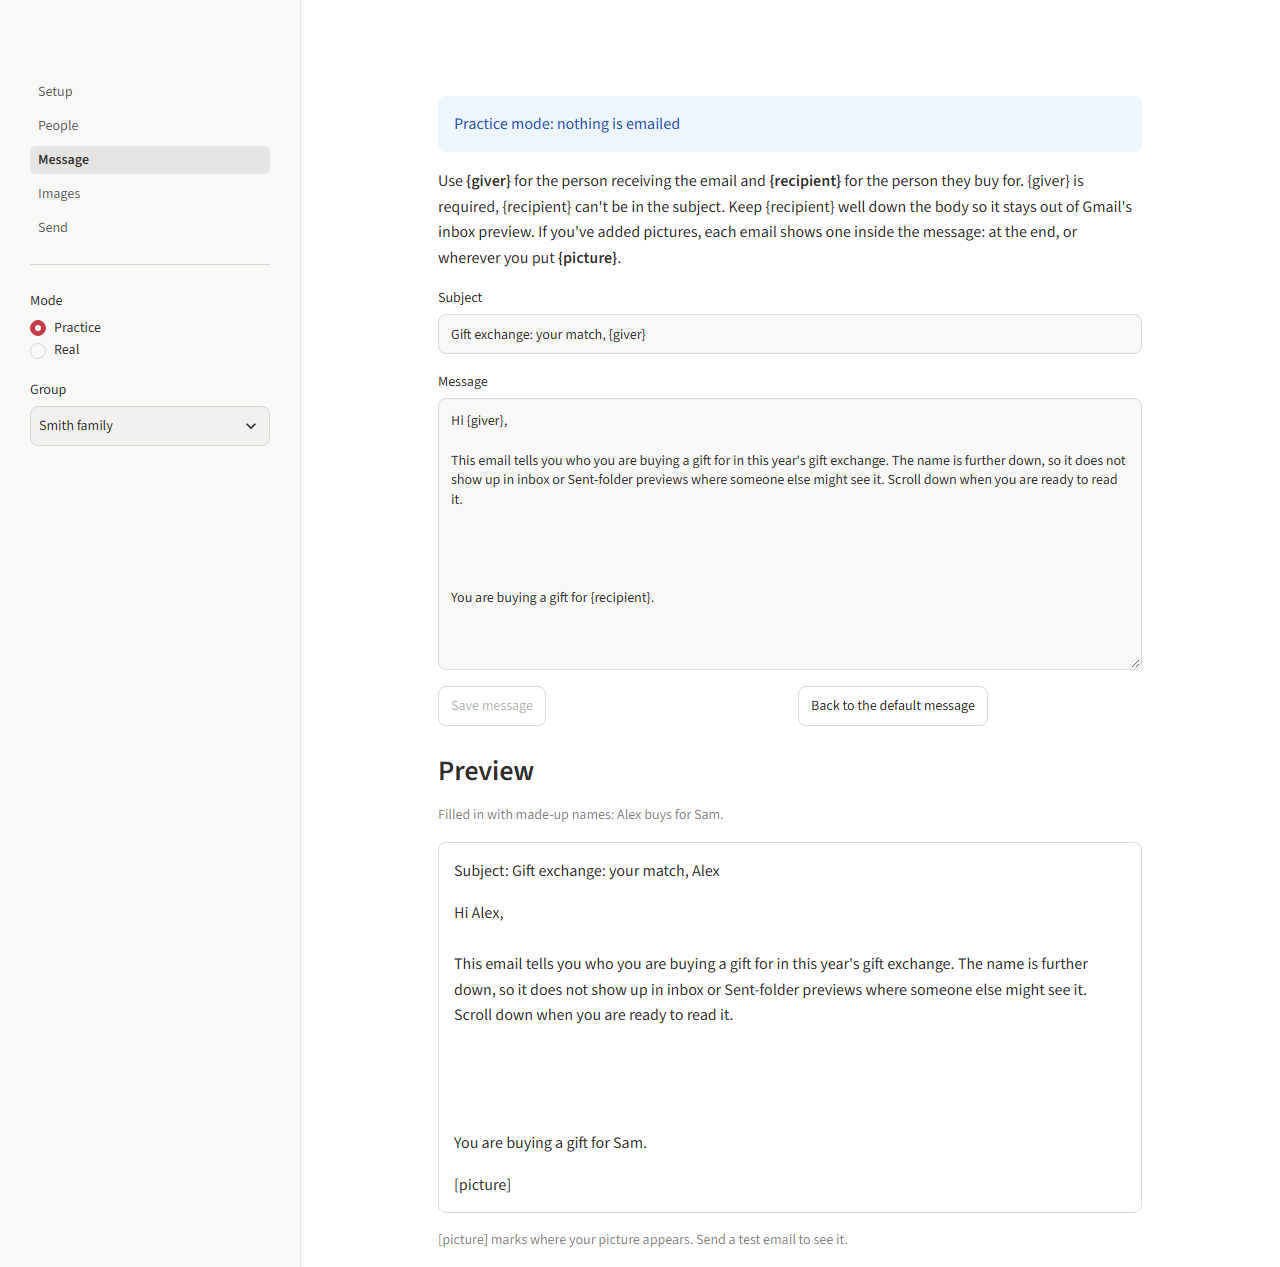
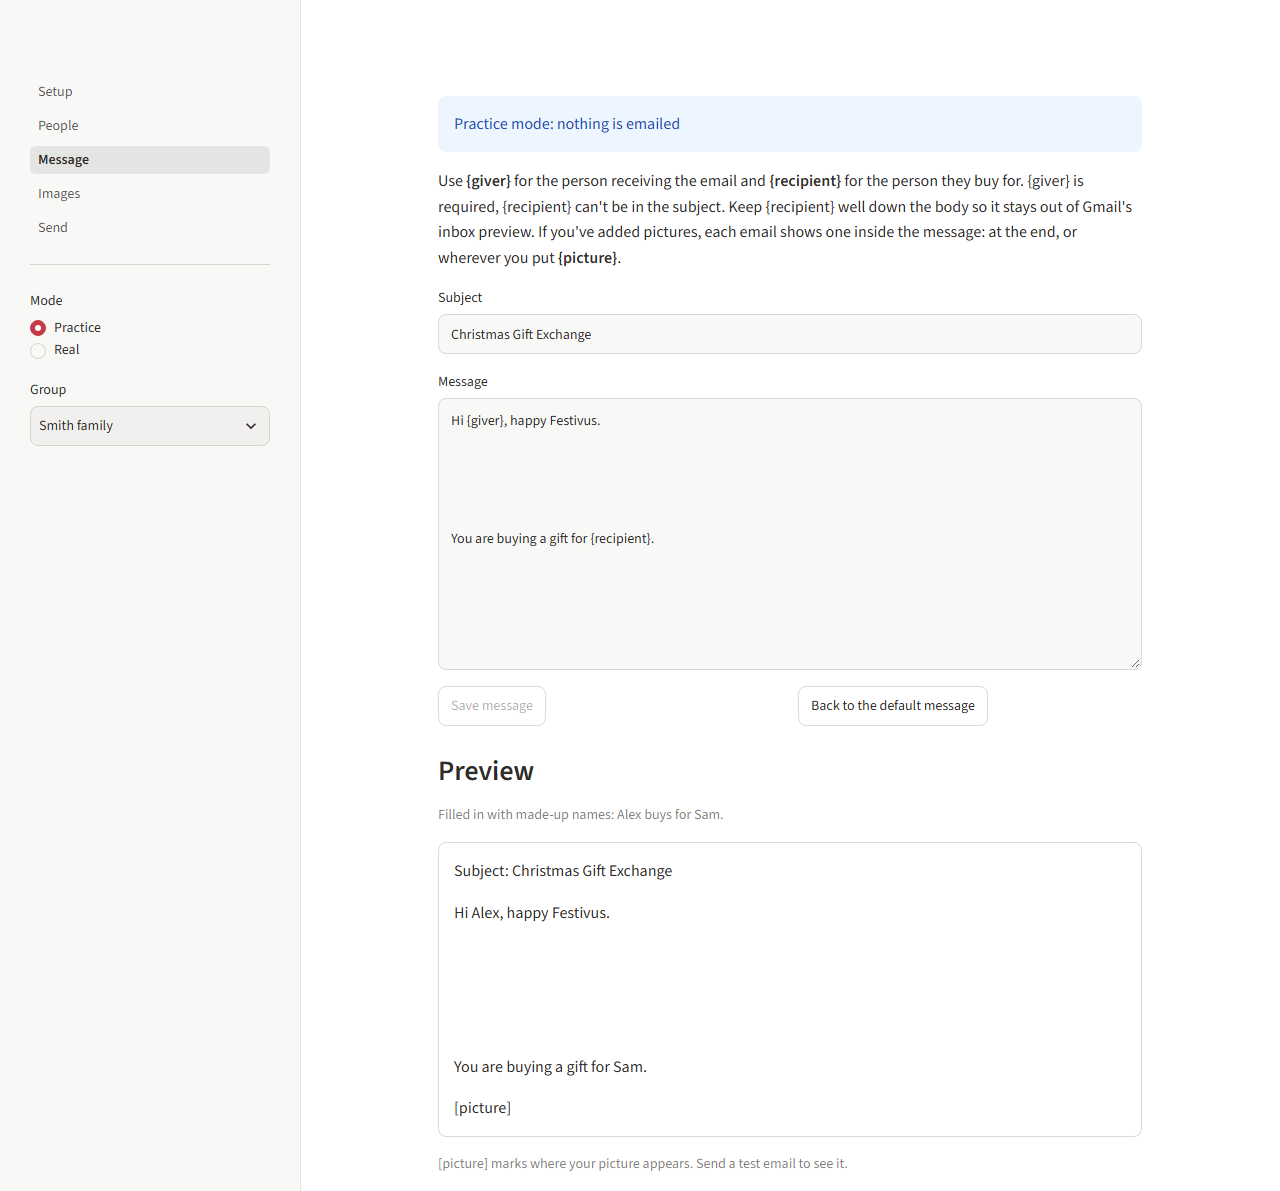
New defaults: "Christmas Gift Exchange" and a short Festivus message
- DEFAULT_SUBJECT "Christmas Gift Exchange"; DEFAULT_BODY "Hi {giver},
  happy Festivus." then five blank lines and the match.
- Groups still on an earlier default subject or message move to the new
  one when the database opens; edited ones are left alone.
- README: no longer claims the default hides the match from inbox
  previews (it doesn't any more); says how to hide it if wanted.
- Screenshots regenerated (Message page, example email cropped to its
  content).

diff --git a/src/giftx/storage.py b/src/giftx/storage.py
@@ -10,7 +10,7 @@ from datetime import timezone
 from pathlib import Path
 
 from giftx import SCHEMA_VERSION
-from giftx.compose import DEFAULT_BODY, DEFAULT_SUBJECT, OLD_DEFAULT_BODIES
+from giftx.compose import DEFAULT_BODY, DEFAULT_SUBJECT, OLD_DEFAULT_BODIES, OLD_DEFAULT_SUBJECTS
 from giftx.model import Person, Rejected, SendRecord, Sent, Unknown
 from giftx.people import clean_email, clean_name
 
@@ -167,10 +167,15 @@ class Storage:
                 _run_script(conn, SAVED_SCHEMA)
             if version < SCHEMA_VERSION:
                 conn.execute(f"PRAGMA user_version = {SCHEMA_VERSION}")
-            # groups still on an earlier default message get the current one (edited ones are kept)
+            # groups still on an earlier default subject or message get the current one (edited ones
+            # are kept)
             conn.executemany(
                 "UPDATE groups SET body = ? WHERE body = ?",
                 [(DEFAULT_BODY, old) for old in OLD_DEFAULT_BODIES],
+            )
+            conn.executemany(
+                "UPDATE groups SET subject = ? WHERE subject = ?",
+                [(DEFAULT_SUBJECT, old) for old in OLD_DEFAULT_SUBJECTS],
             )
 
     # ------------------------------------------------------------ helpers

diff --git a/src/giftx/compose.py b/src/giftx/compose.py
@@ -16,19 +16,26 @@ GIVER = "{giver}"
 RECIPIENT = "{recipient}"
 PICTURE = "{picture}"  # optional: where the picture goes; at the end without it
 
-DEFAULT_SUBJECT = "Gift exchange: your match, {giver}"
+DEFAULT_SUBJECT = "Christmas Gift Exchange"
 DEFAULT_BODY = (
+    "Hi {giver}, happy Festivus.\n\n\n\n\n\n"
+    "You are buying a gift for {recipient}."
+)
+
+# Earlier defaults. A group still holding one of these unchanged is moved to the current default when
+# the database opens; a message someone edited is never touched.
+_LEAD_IN_BODY = (
     "Hi {giver},\n\n"
     "This email tells you who you are buying a gift for in this year's gift exchange. The name is "
     "further down, so it does not show up in inbox or Sent-folder previews where someone else might "
     "see it. Scroll down when you are ready to read it.\n\n\n\n\n"
     "You are buying a gift for {recipient}."
 )
-
-# earlier defaults: a group still holding one of these unchanged is moved to DEFAULT_BODY
 OLD_DEFAULT_BODIES = (
-    DEFAULT_BODY + "\n\nPlease keep it a secret!",
+    _LEAD_IN_BODY,
+    _LEAD_IN_BODY + "\n\nPlease keep it a secret!",
 )
+OLD_DEFAULT_SUBJECTS = ("Gift exchange: your match, {giver}",)
 
 PREVIEW_GIVER = "Alex"
 PREVIEW_RECIPIENT = "Sam"

diff --git a/tests/unit/test_storage.py b/tests/unit/test_storage.py
@@ -334,10 +334,14 @@ def test_snapshots_survive_a_new_exchange_and_go_with_the_group(store):
 def test_groups_on_the_old_default_message_get_the_new_one(store):
     from giftx.compose import OLD_DEFAULT_BODIES
 
-    a = store.create_group("Old default")
-    b = store.create_group("Edited")
-    store.set_message(a, DEFAULT_SUBJECT, OLD_DEFAULT_BODIES[0])
-    store.set_message(b, DEFAULT_SUBJECT, OLD_DEFAULT_BODIES[0] + " Edited by hand.")
+    from giftx.compose import OLD_DEFAULT_SUBJECTS
+
+    olds = [store.create_group(f"Old default {i}") for i in range(len(OLD_DEFAULT_BODIES))]
+    edited = store.create_group("Edited")
+    for gid, body in zip(olds, OLD_DEFAULT_BODIES):
+        store.set_message(gid, OLD_DEFAULT_SUBJECTS[0], body)
+    store.set_message(edited, "My own subject", OLD_DEFAULT_BODIES[0] + " Edited by hand.")
     reopened = Storage(store.db_path)
-    assert reopened.get_message(a)[1] == DEFAULT_BODY
-    assert reopened.get_message(b)[1] == OLD_DEFAULT_BODIES[0] + " Edited by hand."
+    for gid in olds:
+        assert reopened.get_message(gid) == (DEFAULT_SUBJECT, DEFAULT_BODY)
+    assert reopened.get_message(edited) == ("My own subject", OLD_DEFAULT_BODIES[0] + " Edited by hand.")

diff --git a/scripts/screenshots.py b/scripts/screenshots.py
@@ -163,13 +163,13 @@ def render_email(page, data_dir):
         f'<div style="font-size:20px;color:#222;margin-bottom:8px">{html.escape(msg["Subject"])}</div>'
         f'<div><b>From:</b> you@example.com &nbsp; <b>To:</b> {html.escape(msg["To"])}</div></div>'
     )
-    page.set_viewport_size({"width": 760, "height": 640})
+    page.set_viewport_size({"width": 760, "height": 200})  # grows to the content with full_page
     page.set_content(
         '<html><body style="margin:24px;background:#fff">' + head
         + body.split("<body", 1)[1].split(">", 1)[1].rsplit("</body>", 1)[0] + "</body></html>"
     )
     page.wait_for_timeout(500)
-    page.screenshot(path=str(OUT / "email.png"))
+    page.screenshot(path=str(OUT / "email.png"), full_page=True)
     print("saved", (OUT / "email.png").relative_to(REPO))
     page.set_viewport_size(VIEWPORT)
 

diff --git a/tests/unit/test_compose.py b/tests/unit/test_compose.py
@@ -25,9 +25,10 @@ def codes(problems):
     return sorted(p.code for p in problems)
 
 
-def test_defaults_pass_and_keep_the_match_out_of_the_preview_line():
+def test_defaults_pass_and_read_as_chosen():
     assert check_template(DEFAULT_SUBJECT, DEFAULT_BODY) == []
-    assert len(DEFAULT_BODY.split("{recipient}")[0]) >= 200
+    assert DEFAULT_SUBJECT == "Christmas Gift Exchange"
+    assert DEFAULT_BODY == "Hi {giver}, happy Festivus.\n\n\n\n\n\nYou are buying a gift for {recipient}."
 
 
 def test_recipient_in_subject_is_refused():

diff --git a/README.md b/README.md
@@ -78,7 +78,7 @@ family); pick the group in the sidebar.
 ### Message
 
 Edit the subject and message. `{giver}` becomes the person reading the email and `{recipient}` the
-person they buy for. Keep `{recipient}` well down the message so it doesn't show in the inbox preview.
+person they buy for. The default subject is "Christmas Gift Exchange".
 The preview below the editor uses made-up names (Alex and Sam), and **Send test email** sends you a copy.
 
 <img src="docs/screenshots/message.png" alt="Message page with the editor and a preview" width="720">
@@ -113,7 +113,7 @@ app and see exactly what that person would get.
 
 Each person gets their own email, from your address, with their match and the picture:
 
-<img src="docs/screenshots/email.png" alt="An example email: greeting, explanation, the match, and a GIF of a present" width="560">
+<img src="docs/screenshots/email.png" alt="An example email: the greeting, the match, and a GIF of a present" width="560">
 
 When everything looks right, set up Gmail (next section), switch the sidebar to **Real**, and send.
 
@@ -154,8 +154,10 @@ Good to know:
 
 - If an email fails, the run stops there. Press **Send all unsent** again to continue. Nobody gets two
   emails unless you press **Send again** for them.
-- Your Gmail **Sent** folder holds every email, including the matches. The default message keeps the
-  match out of the inbox preview line, but opening a sent email shows it.
+- Inbox and Sent-folder lists show the first line or so of each email next to the subject. With the
+  default message that preview includes the match, so anyone glancing at the list (including you, in
+  your Sent folder) can see it. To hide it, add several lines of text before `{recipient}`.
+- Your Gmail **Sent** folder holds every email, including the matches.
 - Once real sending starts, the draw is locked: only email addresses can change. **Start a new
   exchange** on the Send page clears the draw for next year and keeps the people and the message.
 
